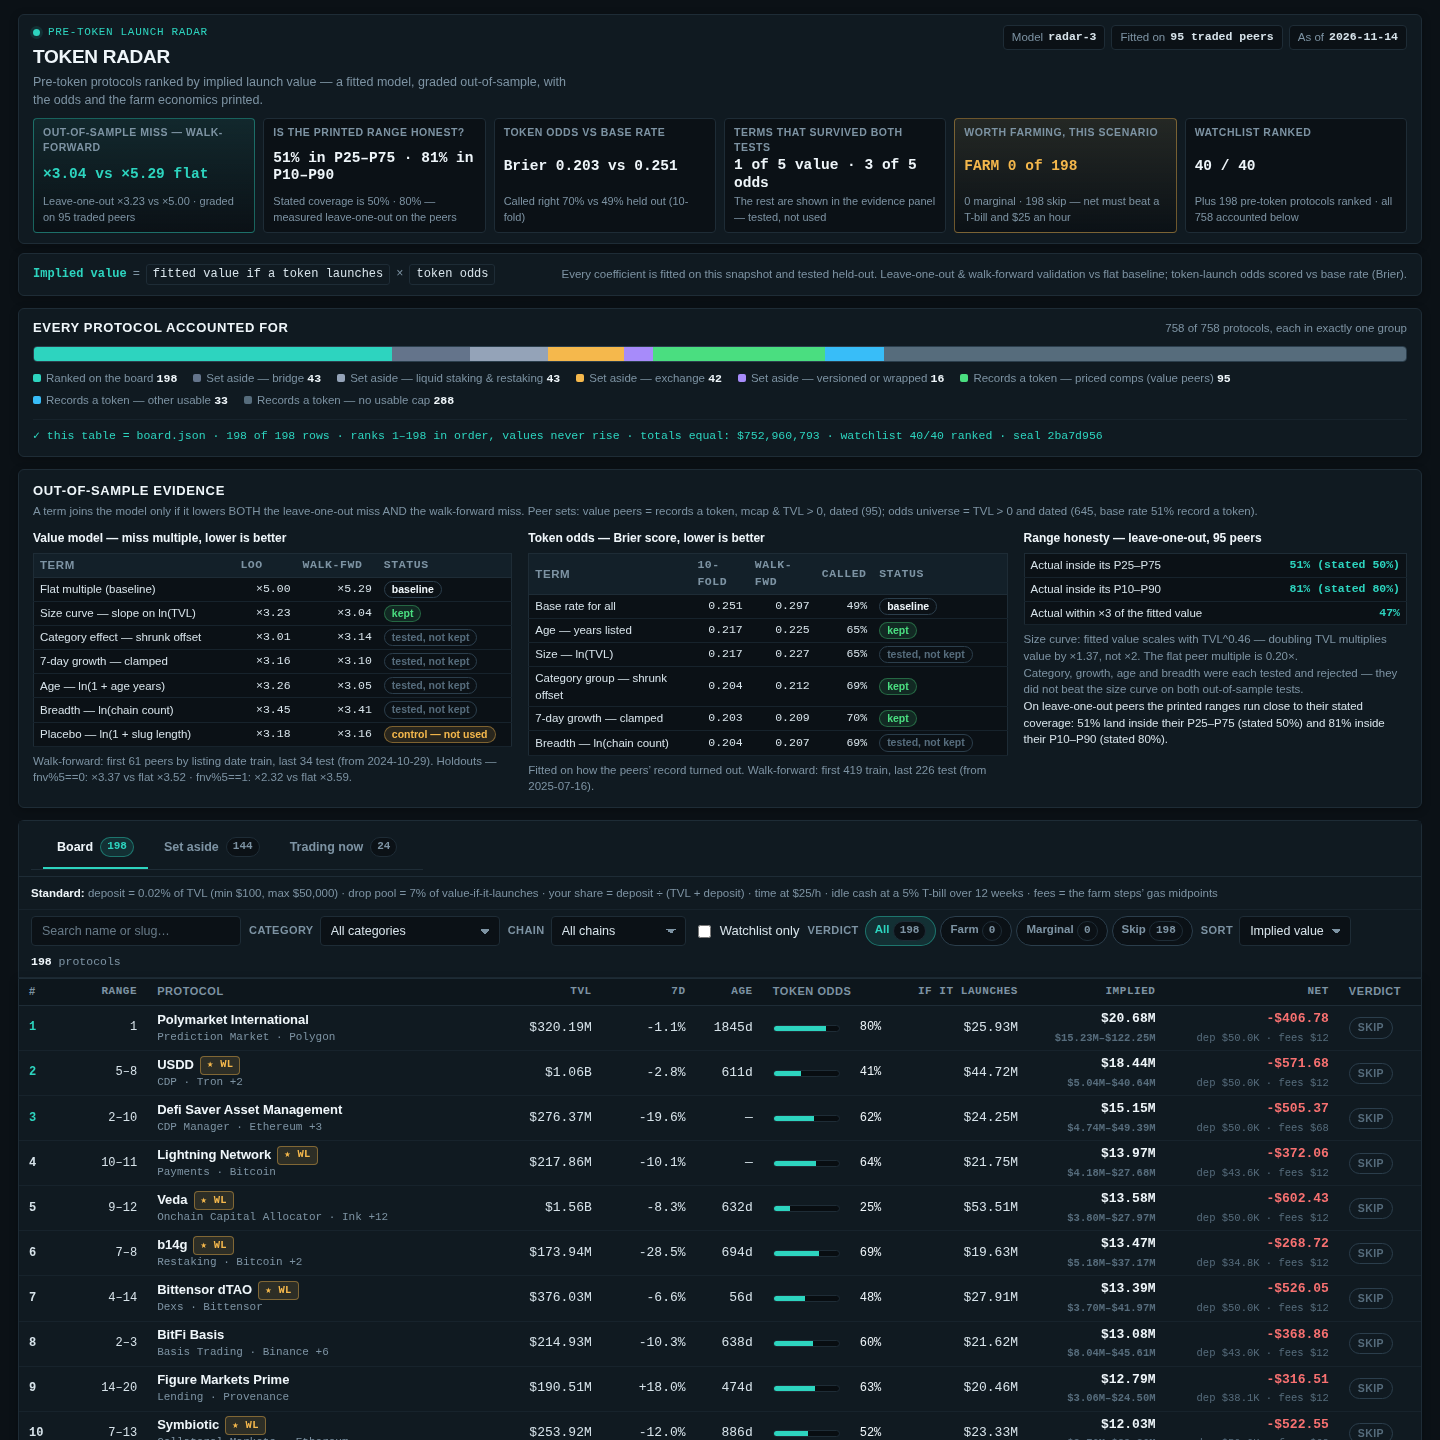
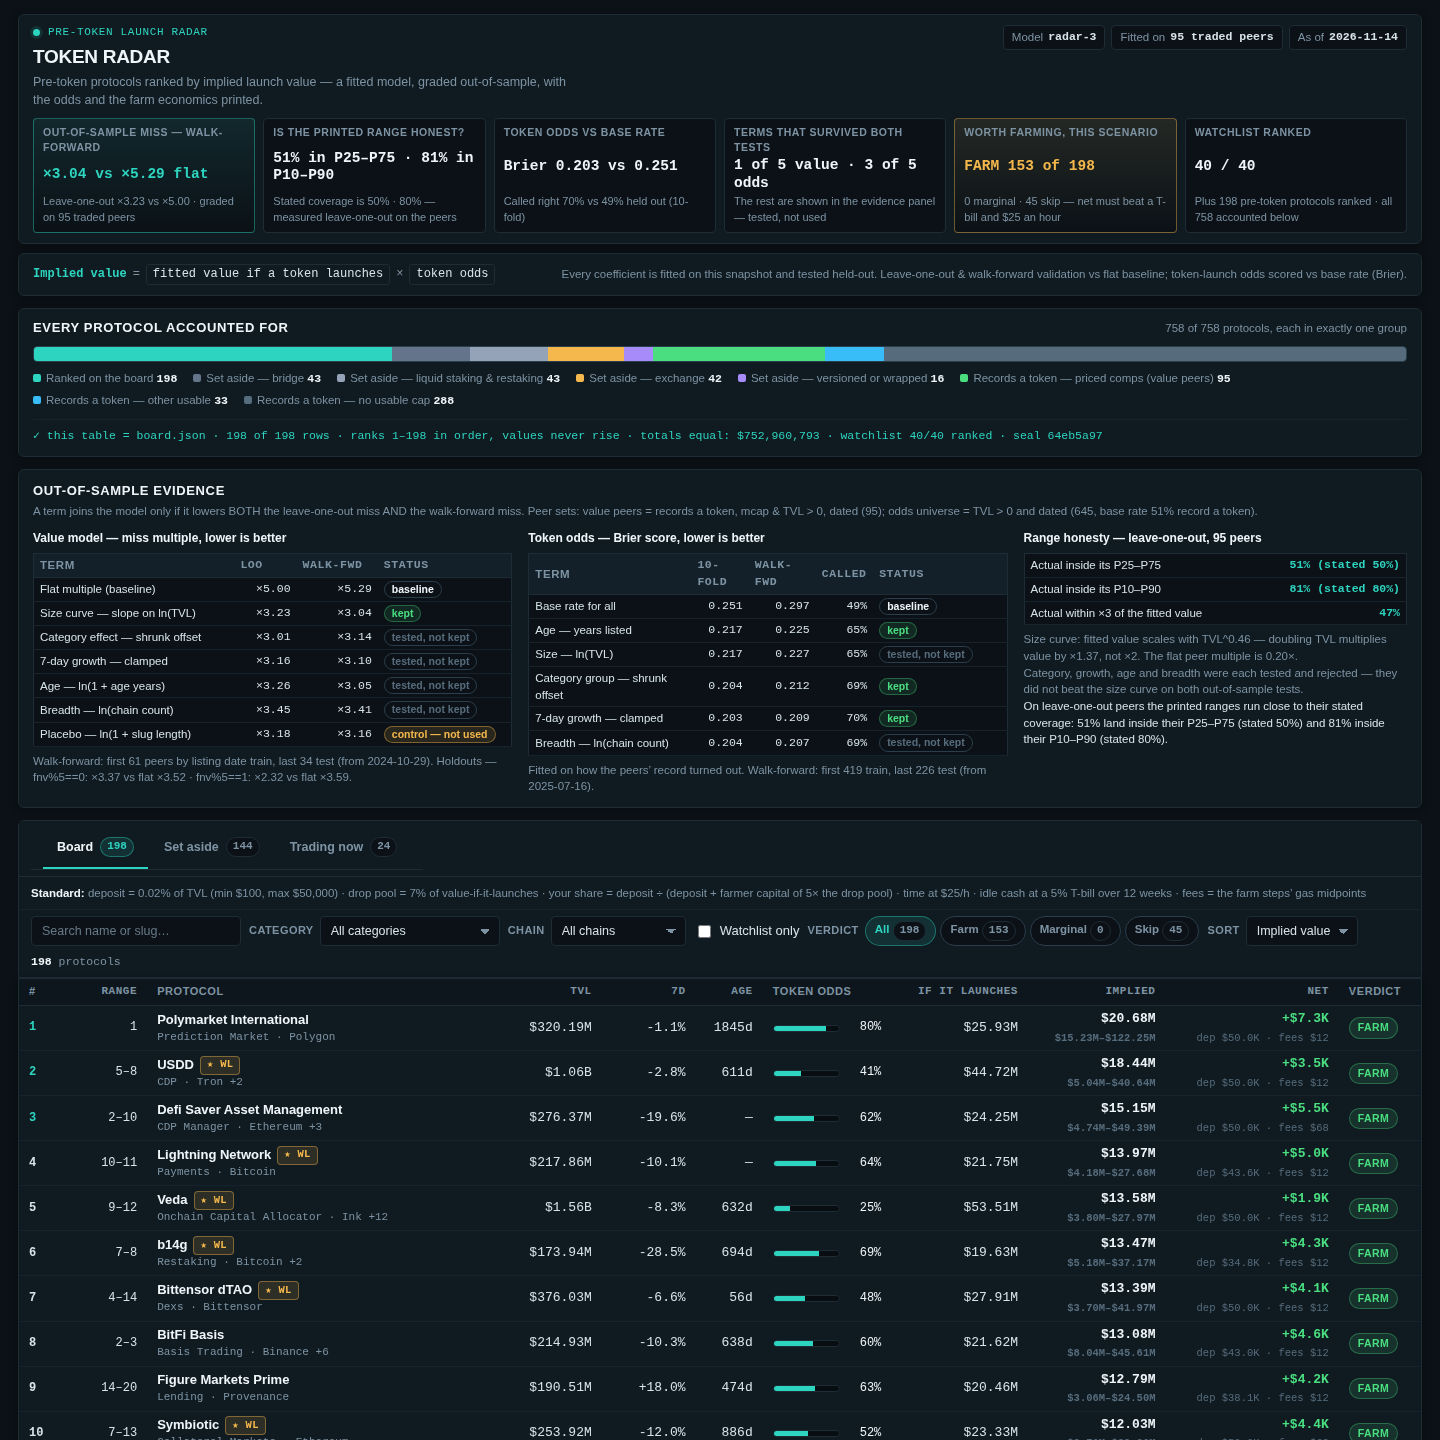
Fix farm share model: share = deposit / (deposit + farmer capital of 5x drop pool), capped at 1
Replace the TVL-based share (deposit / (TVL + deposit)), which made every
expected drop negligible (FARM 0 / MARGINAL 0 / SKIP 198), with the corrected
model: drop pool stays 7% of value-if-launches, competing farmer capital is a
stated assumption of 5x the drop pool, expected = odds x drop pool x share.
Dashboard Standard line, README scenario description, and model comment
updated to print the new definition. Corrected verdicts on the practice
snapshot: FARM 153 / MARGINAL 0 / SKIP 45. Implied values, ranks, odds, and
ranges unchanged (board total still $752,960,793).

diff --git a/lib/model.ts b/lib/model.ts
@@ -1585,7 +1585,11 @@ export function buildRadar(
 
     const deposit = clamp(SCENARIO.deposit_pct_of_tvl * p.tvl_usd, SCENARIO.deposit_min_usd, SCENARIO.deposit_max_usd);
     const dropPool = SCENARIO.drop_pool_pct_of_value * valueIf;
-    const share = deposit / (p.tvl_usd + deposit);
+    // Share model: competing farmer capital is a stated assumption of 5x the drop pool
+    // (farmers together park five times the pool), so your share is
+    // deposit / (deposit + farmer capital of 5x the drop pool), capped at 1.
+    const competingFarmerCapital = 5 * dropPool;
+    const share = Math.min(1, deposit / (deposit + competingFarmerCapital));
     const expected = odds * dropPool * share;
     const timeCost = hours * SCENARIO.hourly_rate_usd;
     const oppCost = deposit * SCENARIO.tbill_rate * (SCENARIO.horizon_weeks / 52);

diff --git a/dashboard/app.js b/dashboard/app.js
@@ -397,7 +397,7 @@
     el('strong', null, 'Standard: '),
     'deposit = ' + ((SC.deposit_pct_of_tvl || 0.0002) * 100) + '% of TVL (min $' + fmtInt(SC.deposit_min_usd) +
     ', max $' + fmtInt(SC.deposit_max_usd) + ') \u00b7 drop pool = ' + Math.round((SC.drop_pool_pct_of_value || 0.07) * 100) +
-    '% of value-if-it-launches \u00b7 your share = deposit \u00f7 (TVL + deposit) \u00b7 time at $' + fmtInt(SC.hourly_rate_usd) +
+    '% of value-if-it-launches \u00b7 your share = deposit \u00f7 (deposit + farmer capital of 5\u00d7 the drop pool) \u00b7 time at $' + fmtInt(SC.hourly_rate_usd) +
     '/h \u00b7 idle cash at a ' + Math.round((SC.tbill_rate || 0.05) * 100) + '% T-bill over ' + fmtInt(SC.horizon_weeks) + ' weeks \u00b7 fees = the farm steps\u2019 gas midpoints'
   );
 

diff --git a/README.md b/README.md
@@ -74,12 +74,12 @@ Rows sort by implied value desc, TVL desc, slug asc. Each row carries the fitted
 
 - `deposit = clamp(0.02% of TVL, $100, $50,000)`
 - `drop pool = 7% of value-if-launches` (stated scenario assumption)
-- `your share = deposit / (TVL + deposit)`; `expected = odds × drop pool × share`
+- `your share = deposit / (deposit + farmer capital of 5× the drop pool)`, capped at 1 — competing farmer capital is a stated assumption: farmers together park five times the drop pool; `expected = odds × drop pool × share`
 - time cost = `hours × $25`; opportunity cost = `deposit × 5% × (12/52)` (T-bill, 12-week horizon)
 - `net = expected − fees − time cost − opportunity cost`; `net/hour = (expected − fees − opportunity cost) / hours`
 - **Verdict**: `FARM` if net > 0 and net/hour ≥ $25; `MARGINAL` if net > 0; otherwise `SKIP`.
 
-On the practice snapshot the honest answer under this standard is FARM 0 of 198 (0 marginal, 198 skip) — at a $25/hour hurdle plus a T-bill comparison, no board protocol's expected drop covers its fees, time, and idle-cash cost; the closest rows are printed with their net and net/hour so the margin is visible rather than hidden.
+On the practice snapshot the answer under this standard is FARM 153 of 198 (0 marginal, 45 skip) — with the share measured against competing farmer capital of 5× the drop pool rather than against the protocol's whole TVL, most rows' expected drop covers their fees, time at $25/hour, and idle-cash cost; every row is printed with its net and net/hour so the margin is visible rather than hidden.
 
 ## Accounting & Integrity
 
